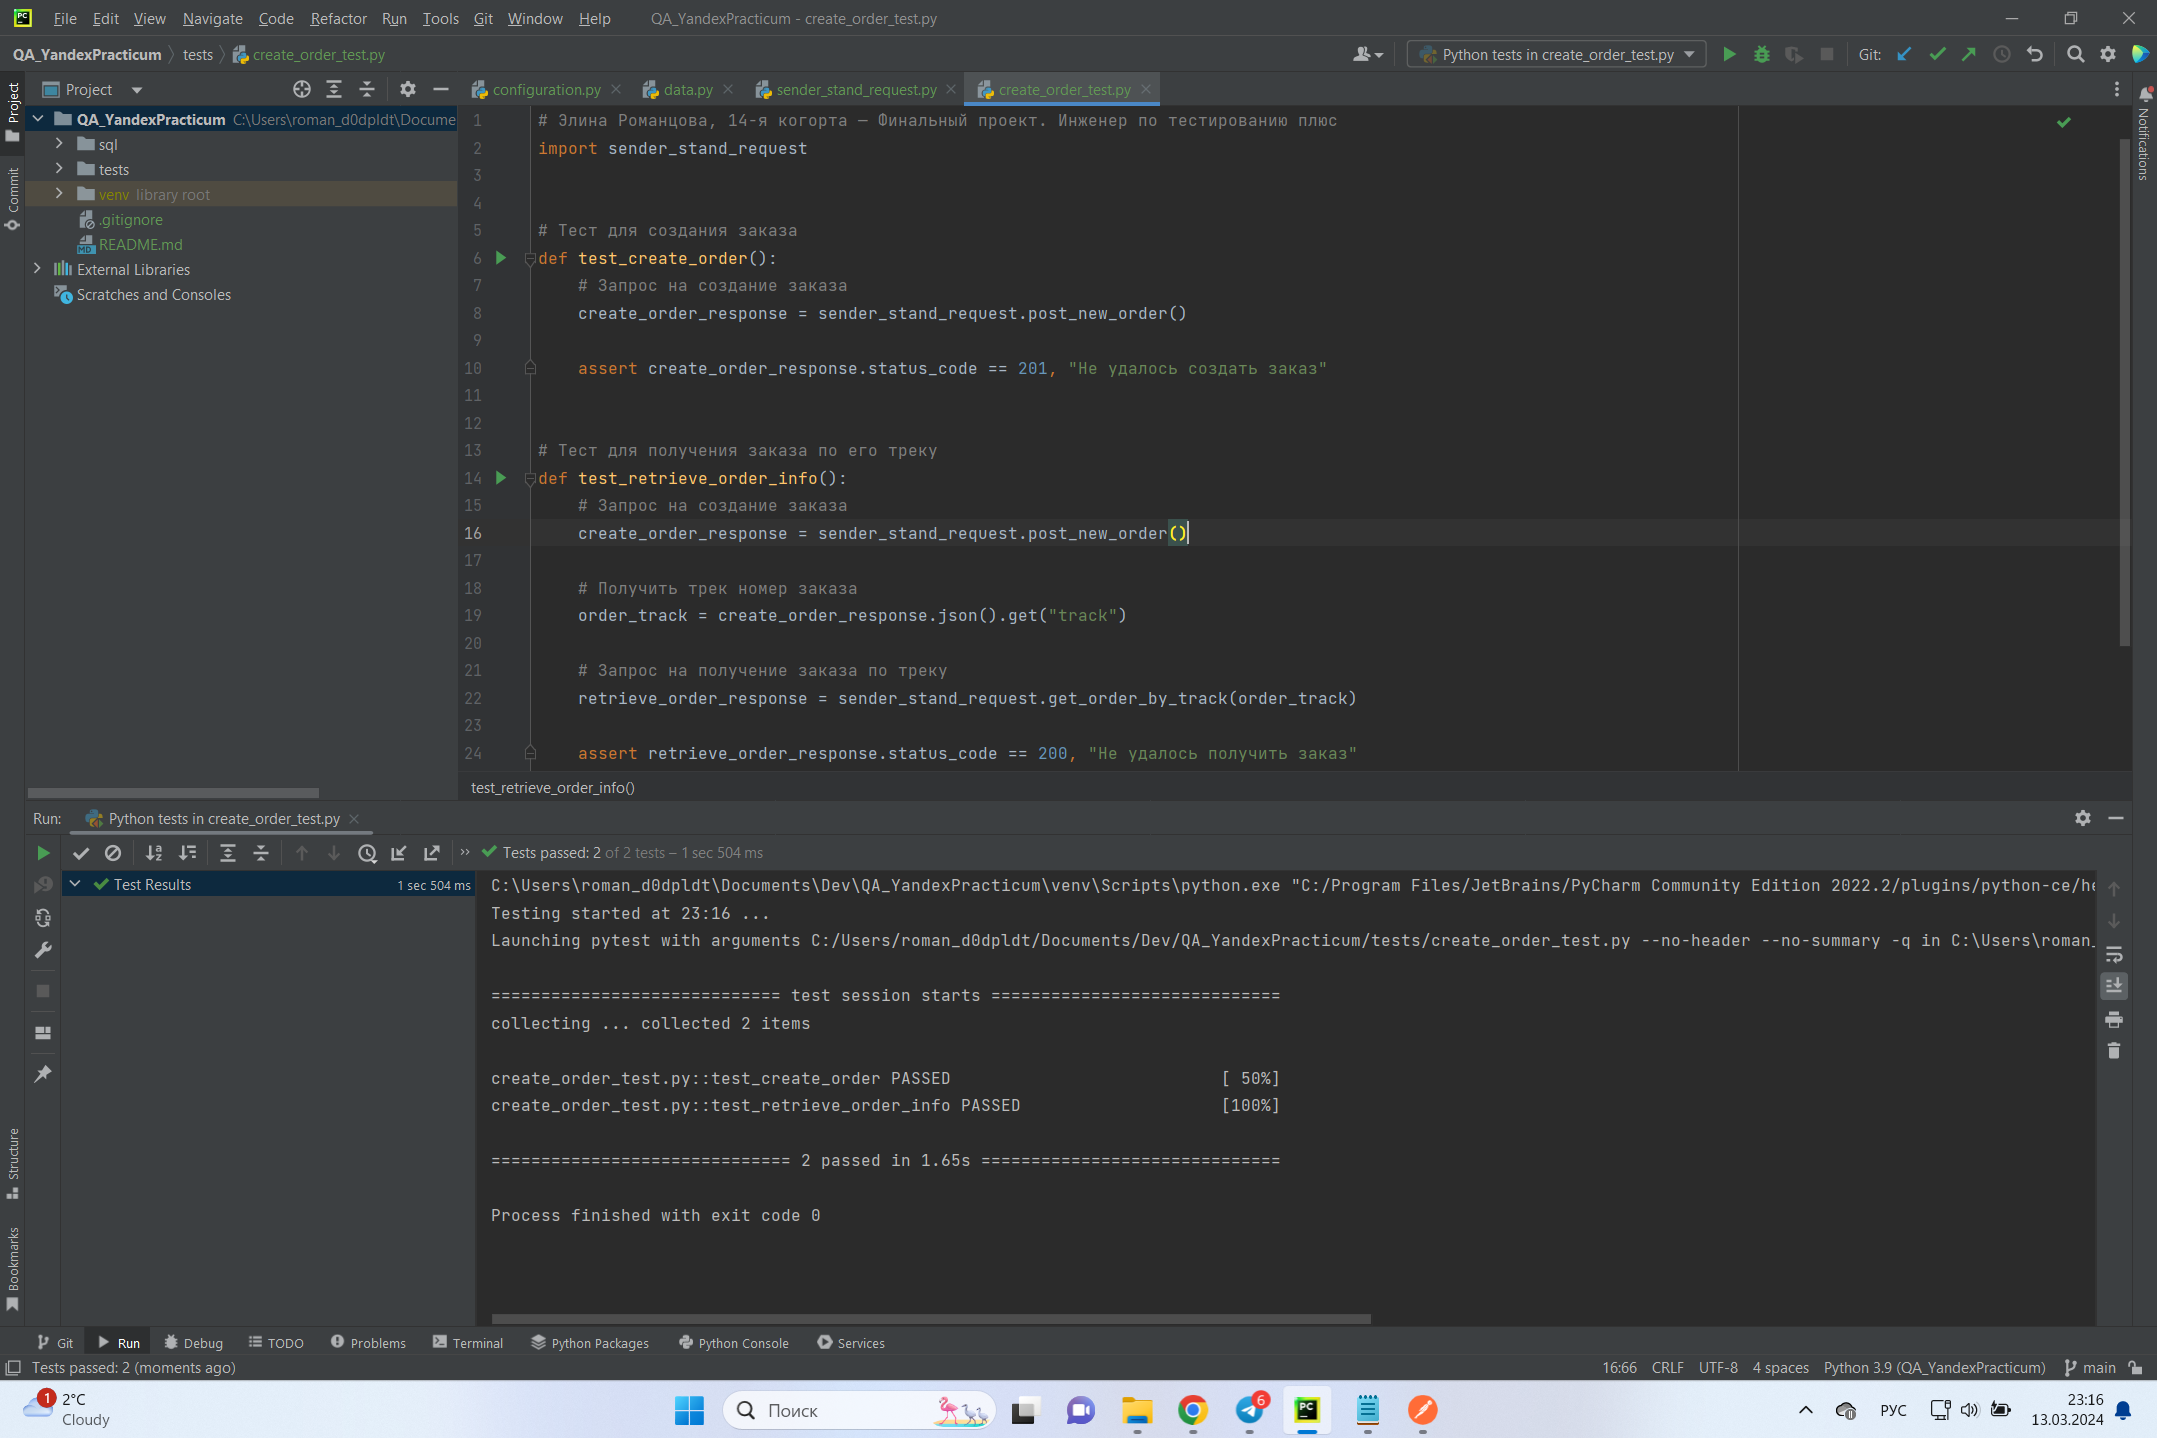
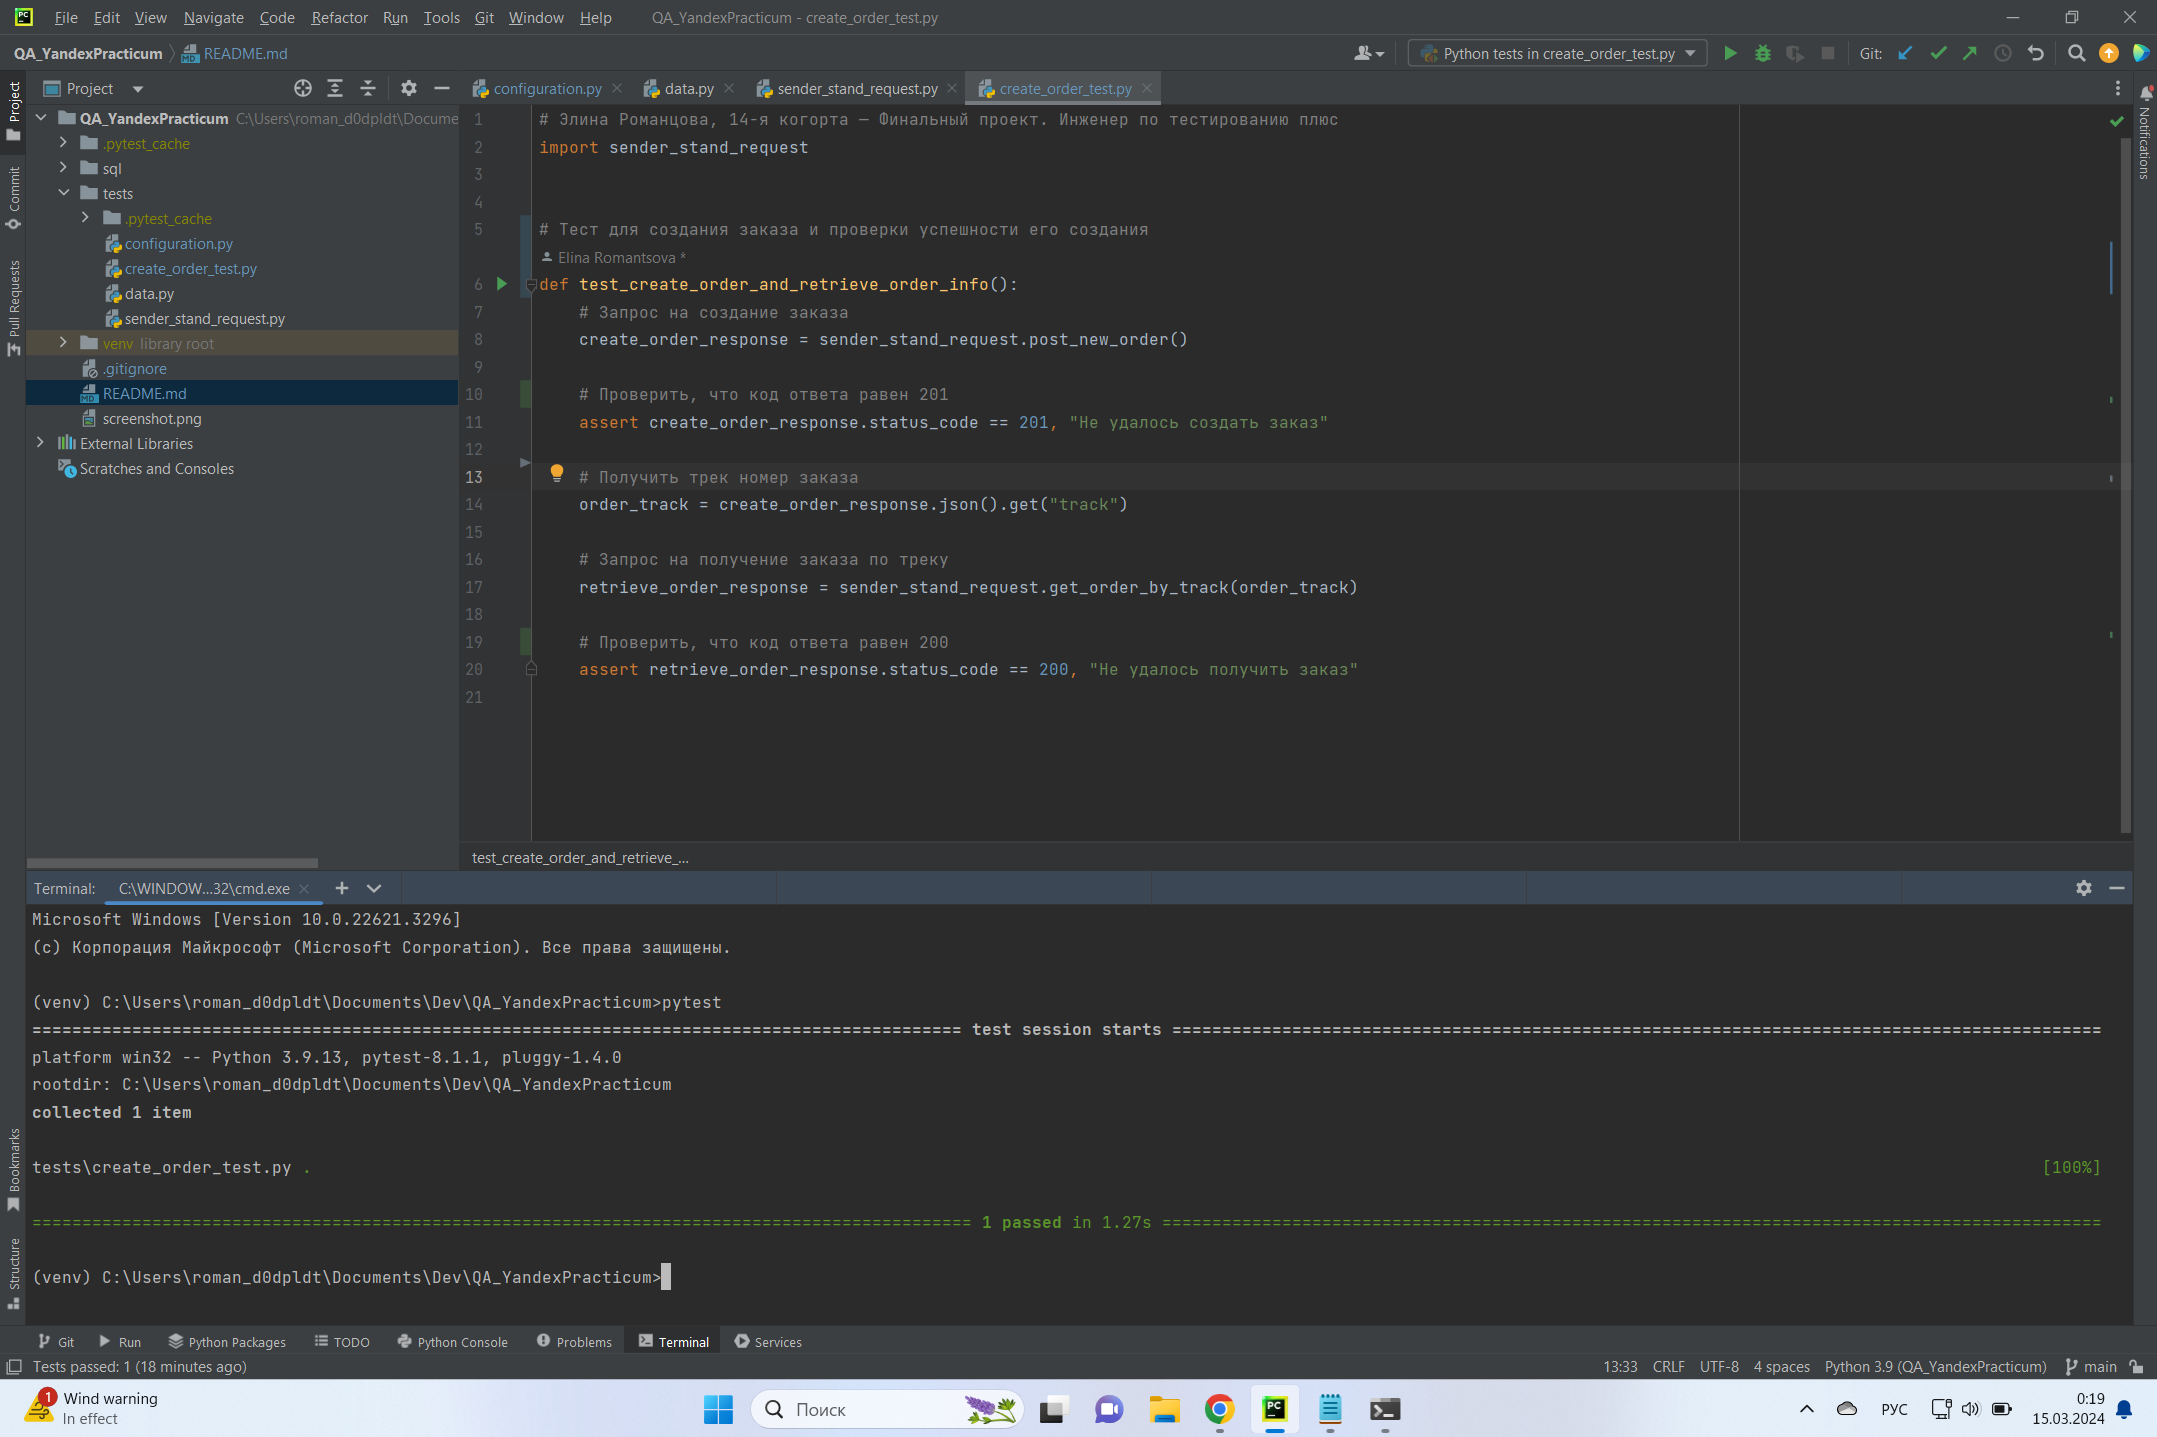
fix

diff --git a/tests/create_order_test.py b/tests/create_order_test.py
@@ -2,18 +2,13 @@
 import sender_stand_request
 
 
-# Тест для создания заказа
-def test_create_order():
+# Тест для создания заказа и проверки успешности его создания
+def test_create_order_and_retrieve_order_info():
     # Запрос на создание заказа
     create_order_response = sender_stand_request.post_new_order()
 
+    # Проверить, что код ответа равен 201
     assert create_order_response.status_code == 201, "Не удалось создать заказ"
-
-
-# Тест для получения заказа по его треку
-def test_retrieve_order_info():
-    # Запрос на создание заказа
-    create_order_response = sender_stand_request.post_new_order()
 
     # Получить трек номер заказа
     order_track = create_order_response.json().get("track")
@@ -21,4 +16,5 @@ def test_retrieve_order_info():
     # Запрос на получение заказа по треку
     retrieve_order_response = sender_stand_request.get_order_by_track(order_track)
 
+    # Проверить, что код ответа равен 200
     assert retrieve_order_response.status_code == 200, "Не удалось получить заказ"

diff --git a/tests/configuration.py b/tests/configuration.py
@@ -1,2 +1,2 @@
-URL_SERVICE = "https://35dfecb8-3a15-4322-89e6-79217a2db909.serverhub.praktikum-services.ru"
+URL_SERVICE = "https://9956fb16-1f80-4985-9e19-6b6e3b339e04.serverhub.praktikum-services.ru"
 ORDERS_PATH = "/api/v1/orders"

diff --git a/README.md b/README.md
@@ -13,6 +13,21 @@
 
 
 ## Автоматизация теста к API
+Проект представляет собой автоматизированный тест для API системы управления заказами. 
+Он включает в себя тест для создания заказа и проверки успешности его создания.
 
-Файлы с автотестами [здесь](tests)
+### Требования
+Для работы с проектом необходимы следующие зависимости:
+
+* Python 3.x
+* Установленные пакеты pytest и requests
+
+### Запуск теста
+Чтобы запустить тест, нужно выполнить команду:
+````
+pytest
+````
+
+
+## Screenshot теста
 ![Screenshot](screenshot.png)
